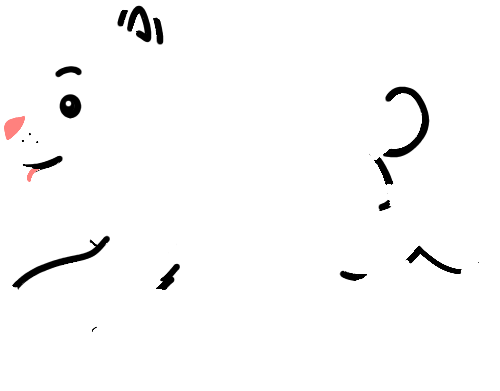
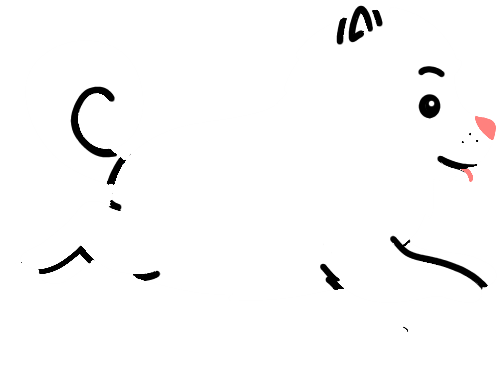
completed doggo animation

diff --git a/src/App.js b/src/App.js
@@ -1,6 +1,8 @@
 import './App.css';
 import scroll from './down-arrow.png';
 
+var timer;
+
 const doggoCome = (e) => {
   const doggo = document.querySelector('.doggo');
   if (e.clientX < (window.innerWidth - doggo.offsetWidth) * 0.98) {
@@ -10,44 +12,29 @@ const doggoCome = (e) => {
   doggo.style.animation = 'bg 0.5s steps(1) infinite alternate';
 
   if (doggo.offsetLeft < e.clientX) {
-    doggo.style.transform = 'translate(-50%) scaleX(-1)';
-  } else {
     doggo.style.transform = 'translate(-50%) scaleX(1)';
+  } else {
+    doggo.style.transform = 'translate(-50%) scaleX(-1)';
   }
-  if (
-    doggo.offsetLeft <= e.clientX * 1.05 &&
-    doggo.offsetLeft >= e.clientX * 0.95
-  ) {
-    console.log('yes');
-    doggo.style.animation = '';
-    doggo.style.backgroundImage = "url('0.png')";
-  }
-};
 
-const doggoSit = (e) => {
-  const doggo = document.querySelector('.doggo');
-  console.log(doggo.offsetLeft, e.clientX);
+  clearTimeout(timer);
 
-  if (
-    doggo.offsetLeft <= e.clientX * 1.05 &&
-    doggo.offsetLeft >= e.clientX * 0.95
-  ) {
-    console.log('yes');
-    doggo.style.animation = 'bg 0.5s steps(1)';
-    doggo.style.backgroundImage = "url('0.png')";
-  }
+  timer = setTimeout(() => {
+    if (
+      doggo.offsetLeft <= e.clientX * 1.05 &&
+      doggo.offsetLeft >= e.clientX * 0.95
+    ) {
+      console.log('yes');
+      doggo.style.animation = 'ogbg 0s linear';
+    }
+  }, 1100);
 };
 
 function App() {
   return (
     <div className="App">
       <div className="scroll-container">
-        <section
-          className="one"
-          id="home"
-          onMouseMove={doggoCome}
-          onMouseOver={doggoSit}
-        >
+        <section className="one" id="home" onMouseMove={doggoCome}>
           <div className="header">
             <div className="sec1">
               <a href="#home">HOME</a>

diff --git a/src/App.css b/src/App.css
@@ -186,3 +186,9 @@ canvas {
     background-image: url('1.png');
   }
 }
+
+@keyframes ogbg {
+  100% {
+    background-image: url('3.png');
+  }
+}
